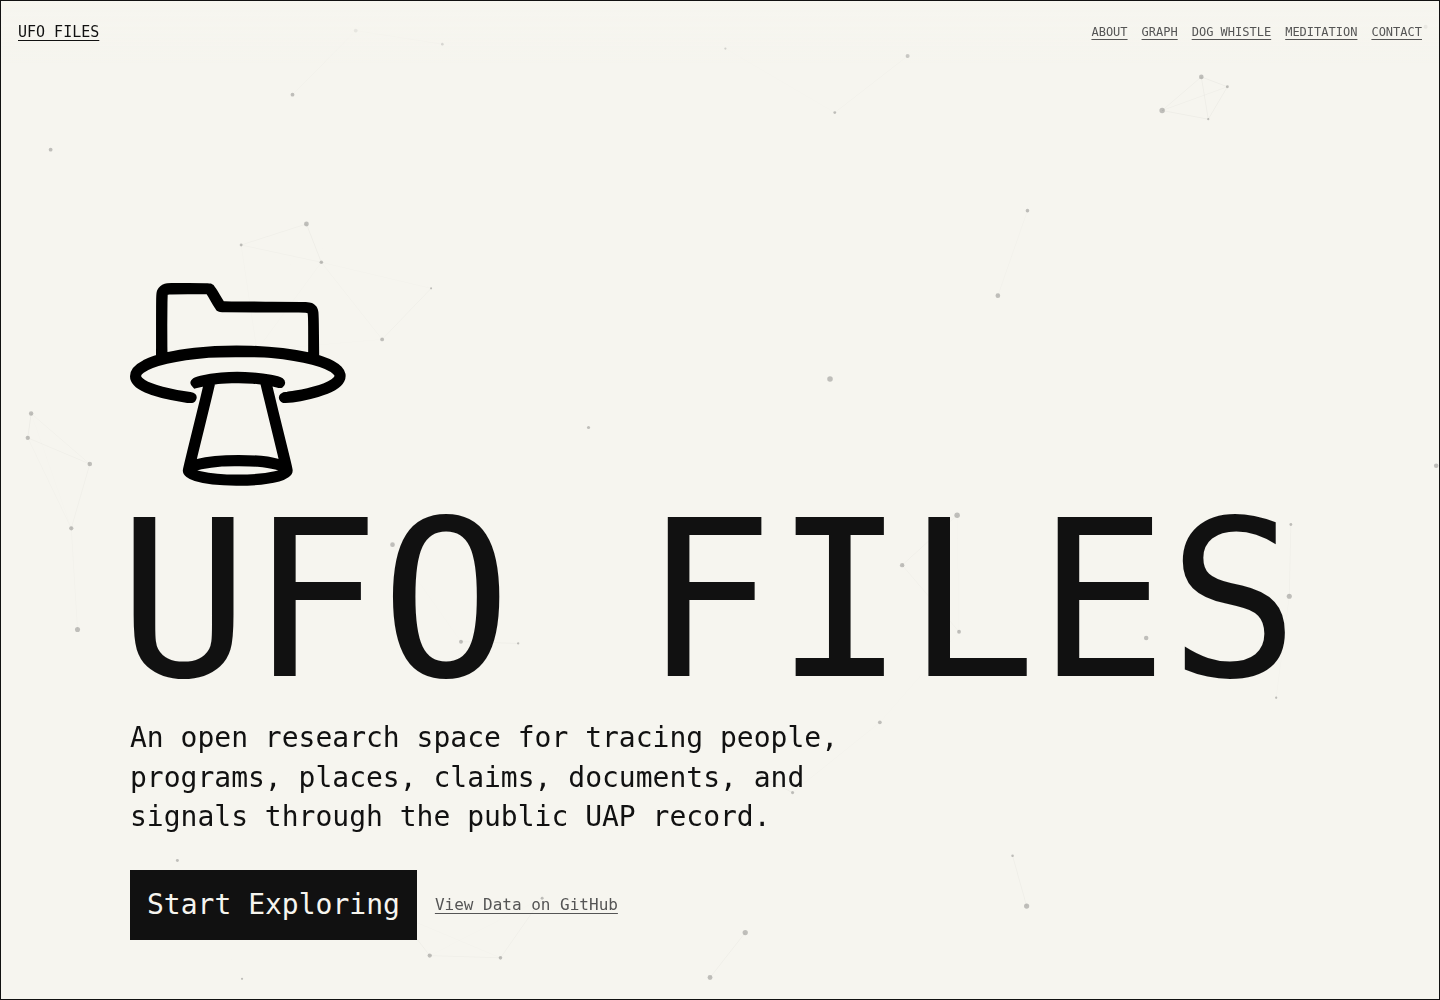
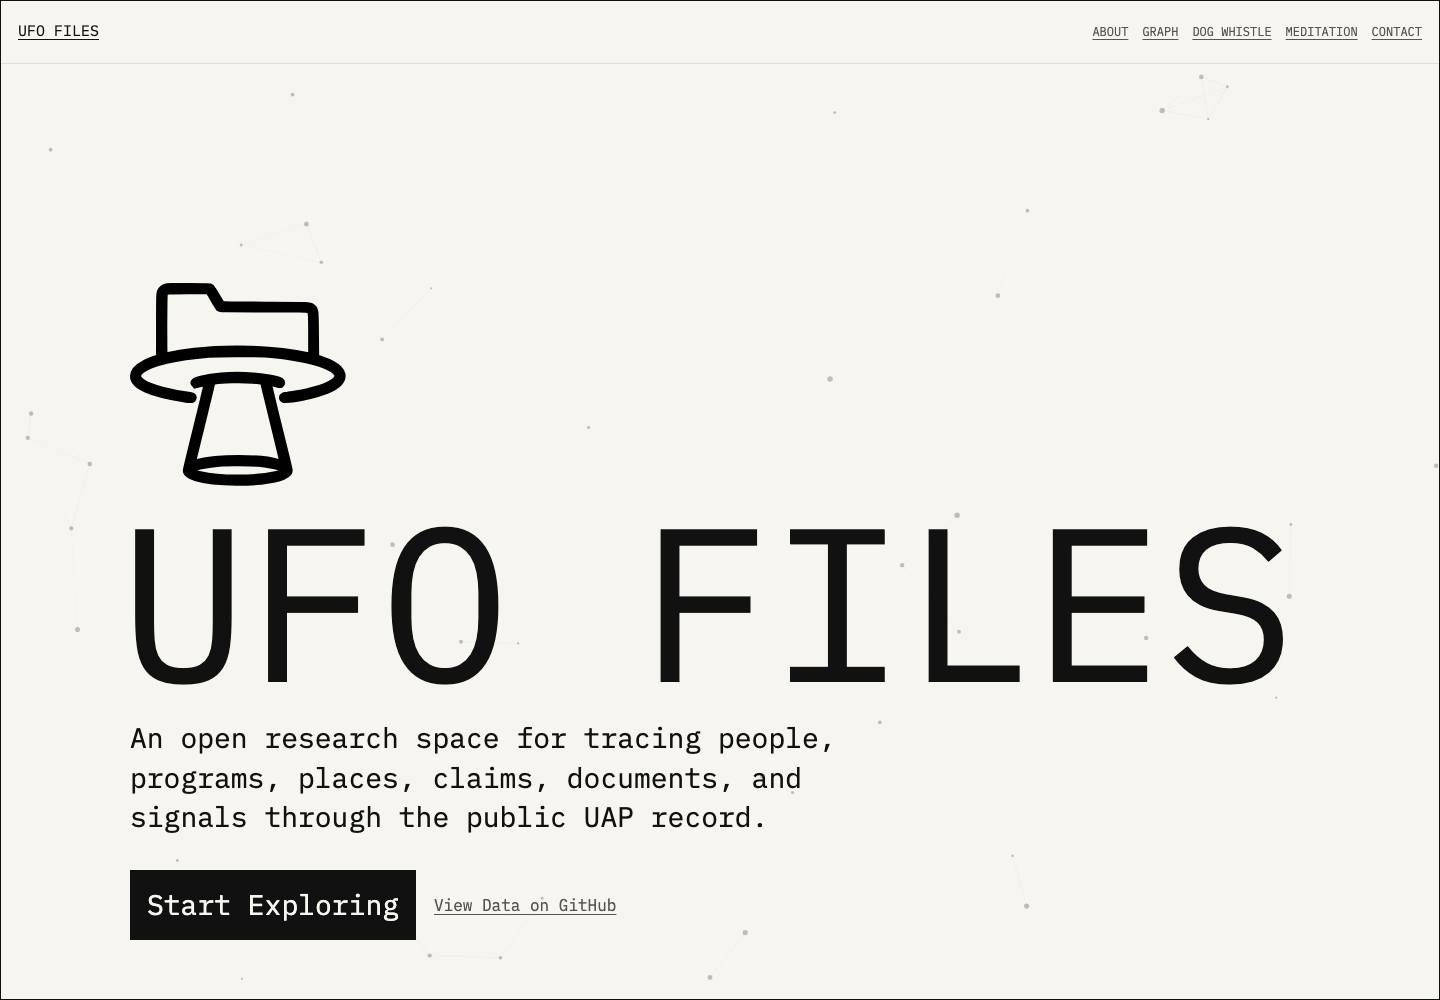
Refine mobile archive metric and header

diff --git a/styles.css b/styles.css
@@ -54,7 +54,10 @@ img {
   align-items: center;
   min-height: 64px;
   padding: 14px 18px;
-  background: linear-gradient(to bottom, rgba(246, 245, 239, .96), rgba(246, 245, 239, .72), rgba(246, 245, 239, 0));
+  border-bottom: 1px solid rgba(17, 17, 17, .1);
+  background: rgba(246, 245, 239, .88);
+  backdrop-filter: blur(14px);
+  -webkit-backdrop-filter: blur(14px);
 }
 
 .brand,
@@ -523,7 +526,7 @@ img.intro-logo {
   }
 
   .archive-count {
-    font-size: clamp(72px, 24vw, 132px);
+    font-size: clamp(44px, 13vw, 64px);
   }
 
   .product-section::after {